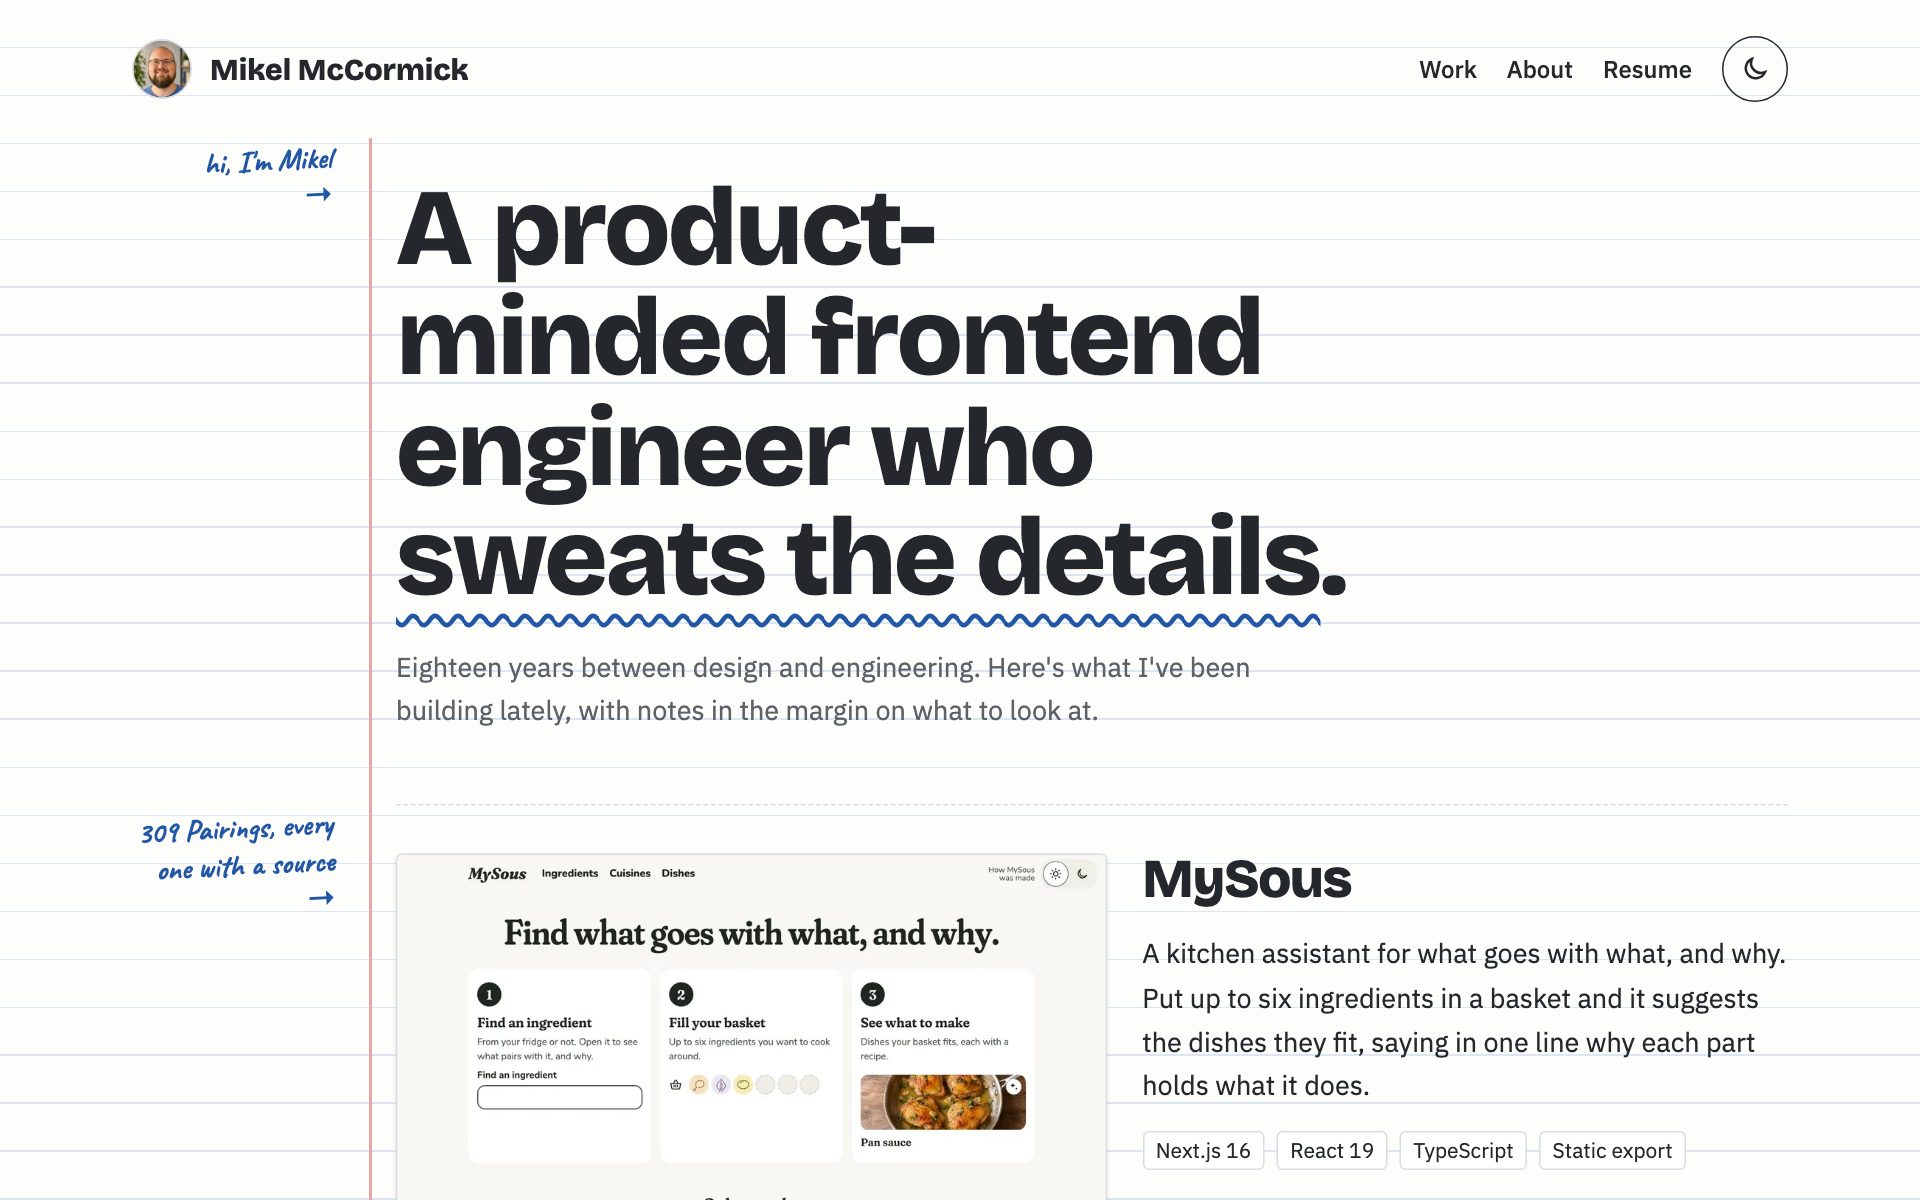
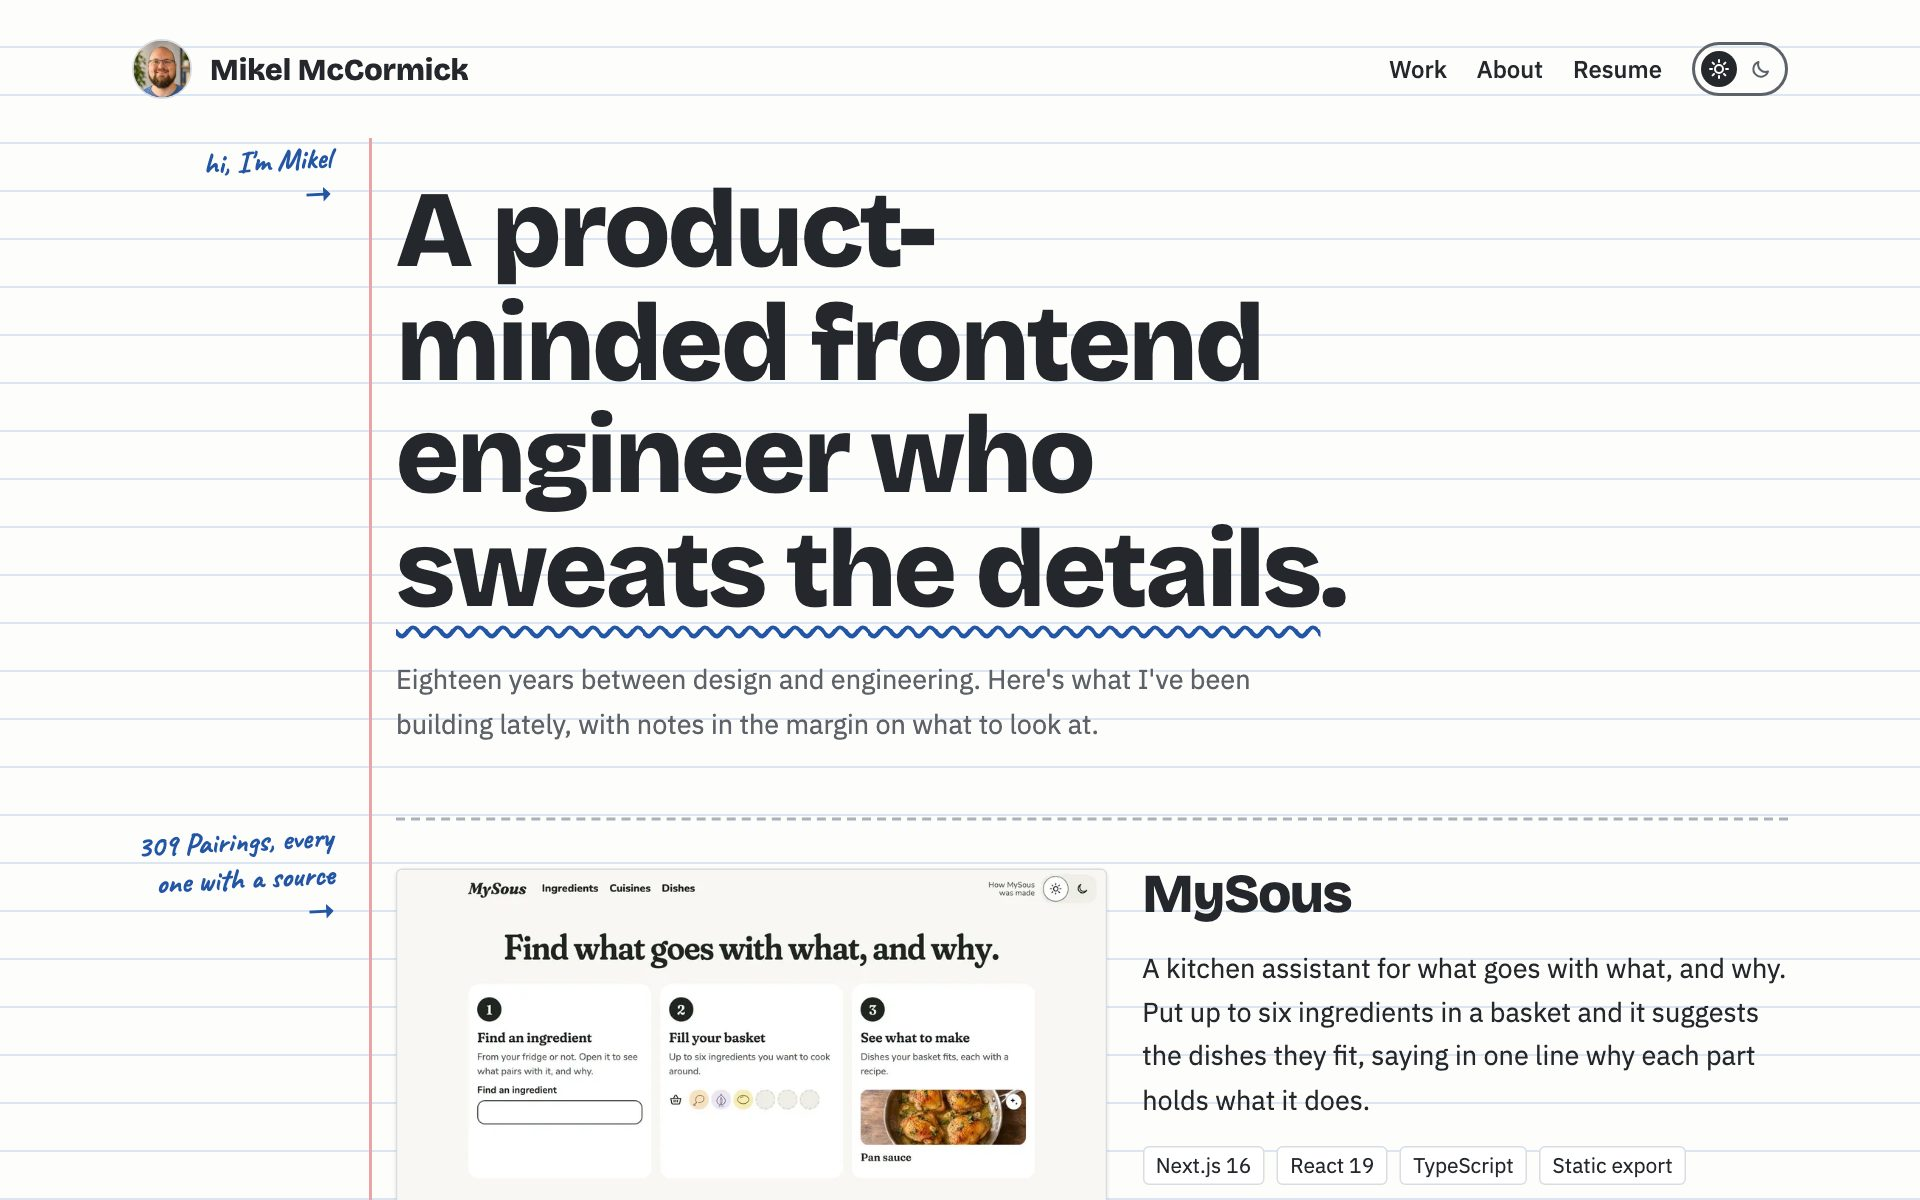
Mobile pass: taped Project cards, a tighter hero and header, About updates (#24)
* Mobile pass: taped Project cards, a tighter hero and header, About updates

On a phone each Project on the home page is a card with its note taped
across the top and its links a row of buttons; the hero is smaller and the
theme toggle sits beside the name. About gets a centred, larger photo, the
heading "About me", gardening, and a summary of the resume. The resume
links read "See full resume" and "Download as PDF", with icons.

Closes #23

* Case Study: the mobile pass, linked screenshots and the resume summary

The Case Study's After launch now covers the phone-width pass and how its
layout was chosen, card screenshots opening the live site, and About's
resume summary. The Portfolio site's screenshots are recaptured, and its
"Notes that move to fit" Highlight mentions the taped cards.

Refs #23

---------

diff --git a/e2e/about.spec.ts b/e2e/about.spec.ts
@@ -4,14 +4,14 @@ import { expect, test } from '@playwright/test'
 test('the About page has a bio, the resume and contact, and the navigation marks it', async ({ page }) => {
   await page.goto('/about')
   await expect(page).toHaveTitle('About · Mikel McCormick')
-  await expect(page.getByRole('heading', { level: 1 })).toHaveText('About')
+  await expect(page.getByRole('heading', { level: 1 })).toHaveText('About me')
   await expect(page.getByRole('heading', { level: 2 })).toHaveText([
     'Outside of work',
     'How I work',
     'Resume',
     'Contact',
   ])
-  await expect(page.getByRole('link', { name: 'Read the resume' })).toHaveAttribute('href', '/resume')
+  await expect(page.getByRole('link', { name: 'See full resume' })).toHaveAttribute('href', '/resume')
   await expect(page.getByRole('navigation', { name: 'Main' }).getByRole('link', { name: 'About' })).toHaveAttribute(
     'aria-current',
     'page',

diff --git a/e2e/resume.spec.ts b/e2e/resume.spec.ts
@@ -23,7 +23,7 @@ test('the Resume page has the resume, in its sections, and the navigation marks 
 
 test('the resume downloads as a PDF', async ({ page, request }) => {
   await page.goto('/resume')
-  const link = page.getByRole('link', { name: 'Download the resume (PDF, 1 page)' })
+  const link = page.getByRole('link', { name: 'Download as PDF' })
   await expect(link).toHaveAttribute('href', '/mikel-mccormick-resume.pdf')
   const response = await request.get('/mikel-mccormick-resume.pdf')
   expect(response.ok()).toBe(true)

diff --git a/docs/journal/0002-mobile-pass.md b/docs/journal/0002-mobile-pass.md
@@ -1,0 +1,34 @@
+# 0002: Mobile pass, Projects as taped cards
+
+A pass over the site at phone width (375px, down to 320px). The home page's hero and the header took too much of the first screen, and the Work section ran its Projects together: a dashed rule, a note, a screenshot, a name, a pitch, tags and links, all at one spacing, so one Project's links ran into the next one's note. Wider screens are unchanged.
+
+## How the Work layout was chosen
+
+Four layouts for a Project on a phone, each built as a page from the real content and compared at 375px:
+
+| Variant        | What it was                                                                                                       |
+| -------------- | ----------------------------------------------------------------------------------------------------------------- |
+| A · Index card | A white card: screenshot flush on top, the stack as one muted line, the links a bar of three along the bottom     |
+| B · Spec sheet | Name and pitch first, then the screenshot, then labelled rows: Stack, and Links one per row; a solid rule between |
+| C · Taped card | A card with the note on tape across its top edge, the name above the screenshot, the links a segmented row        |
+| D · Scan-first | A small thumbnail beside the name and stack, then the pitch and pill-shaped links; the dashed rules kept          |
+
+| A                                | B                                | C                                | D                                |
+| -------------------------------- | -------------------------------- | -------------------------------- | -------------------------------- |
+| ![Variant A](0002/variant-a.png) | ![Variant B](0002/variant-b.png) | ![Variant C](0002/variant-c.png) | ![Variant D](0002/variant-d.png) |
+
+The author picked **C**. Each card is a clear unit, so one Project no longer runs into the next. The tape keeps the notebook's handwriting and gives the note a job, labelling the card, and the name comes before the screenshot, so a reader knows what they're looking at. B was the most structured but the longest; D was the most compact but shrank the screenshot to a thumbnail.
+
+## What was built
+
+![The Work cards on a phone, light](0002/built-phone-light.png)
+
+![The Work cards on a phone, dark](0002/built-phone-dark.png)
+
+- **Work, on a phone:** each Project is a card. `MarginNote` takes a `taped` option: on a phone the note becomes a tape label overlapping the card's top edge, and from `md` it's the margin note it was. It stays one element, so the note isn't read twice. The name moves above the screenshot, the pitch drops to `text-base`, the tags shrink, and the links are a segmented row of equal buttons, icon above label, at least 56px tall. At 375px a side-by-side icon left "Case Study" crowded, so they stack.
+- **The hero** is `text-4xl` on a phone (four lines rather than six), so the first card shows above the fold.
+- **The header,** on a phone, puts the name and theme toggle on the top row, the toggle right-aligned, and the navigation on a row beneath.
+
+![The header and hero on a phone](0002/header-phone.png)
+
+- **About:** the photo is centred above the text on a phone, and a little larger at every width.
